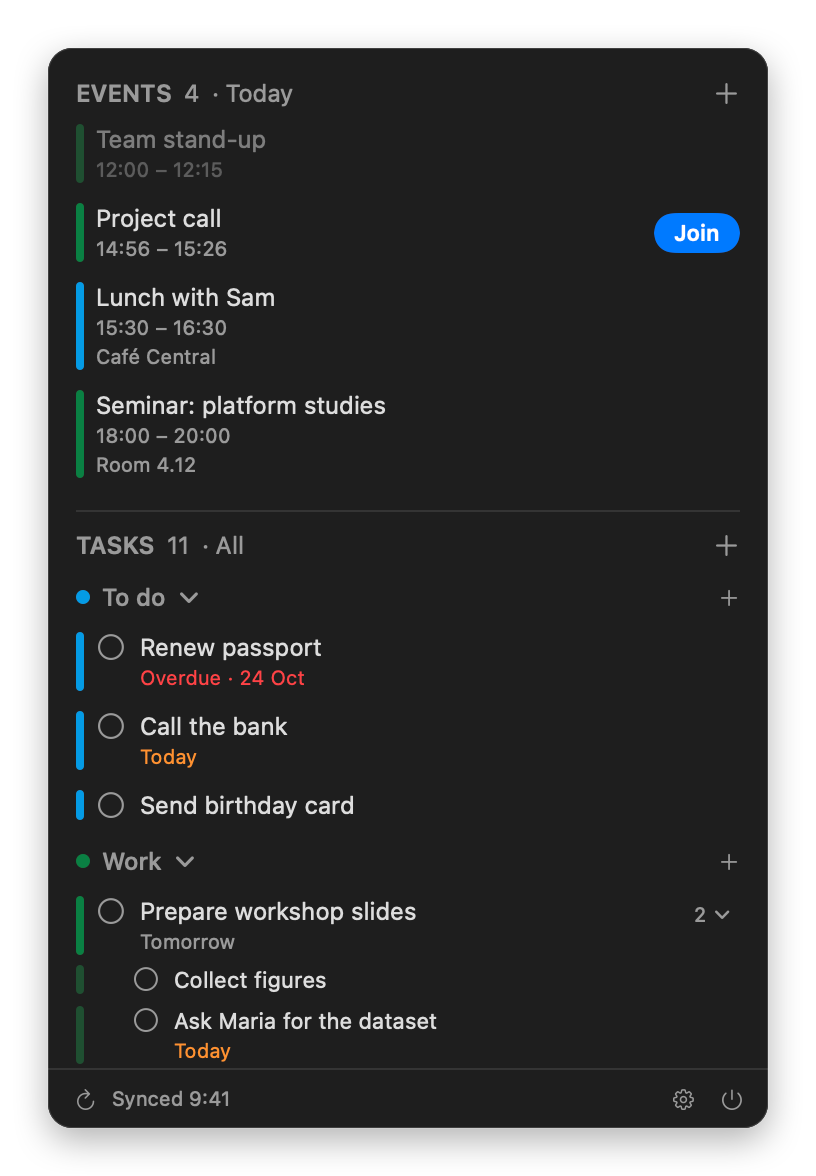
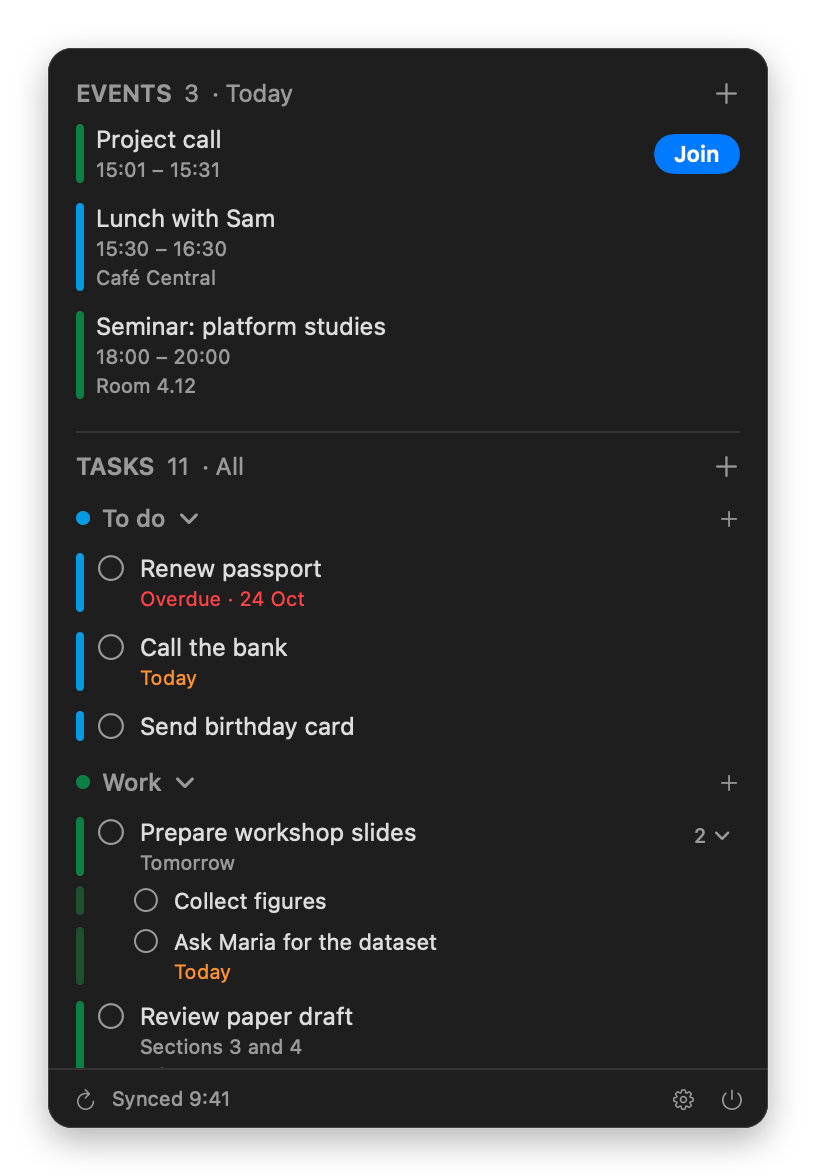
Hide events once they've ended
The list re-checks every minute and when the panel opens. Declined events still show faded (layout.json: declinedEventOpacity).

diff --git a/Sources/machen/Store.swift b/Sources/machen/Store.swift
@@ -85,6 +85,9 @@ enum Sync {
 final class Store: ObservableObject {
     /// Today; events are shown for `eventDays` days from here. Rolls over at midnight.
     @Published private(set) var day = Date().startOfDay
+    /// The time the list was last checked against; events that ended before it are hidden.
+    /// Updated every minute and when the panel opens.
+    @Published private(set) var now = Date()
     static let eventDayRange = 1...14
     /// Values the Events heading steps through when clicked.
     static let eventDayCycle = [1, 2, 3, 7]
@@ -269,8 +272,9 @@ final class Store: ObservableObject {
         return events.filter { shown.contains($0.calendarID) }
     }
 
+    /// Events still to come or under way, by day. Finished ones are left out.
     var eventsByDay: [EventDay] {
-        EventDay.group(shownEvents, from: day, days: eventDays, multiDay: multiDayMode)
+        EventDay.group(shownEvents.filter { $0.end > now }, from: day, days: eventDays, multiDay: multiDayMode)
     }
 
     /// Number of distinct events shown, counting a repeated multi-day event once.
@@ -405,6 +409,7 @@ final class Store: ObservableObject {
 
     /// Every minute: events near today, and everything every few minutes.
     private func tick() async {
+        now = Date()
         rollOverDay()
         guard loadCount == 0 else { return }
         if fullSyncDue { await refresh() } else { await refreshEvents() }
@@ -427,6 +432,7 @@ final class Store: ObservableObject {
     /// Opening the panel refreshes events and tasks (or everything, if that's due) while the
     /// loaded data shows, unless something was refreshed moments ago.
     func refreshOnOpen() async {
+        now = Date()
         guard auth.isSignedIn, loadCount == 0,
               lastSync.map({ Date().timeIntervalSince($0) >= Sync.openThreshold }) ?? true else { return }
         if fullSyncDue { return await refresh() }

diff --git a/Sources/machen/Layout.generated.swift b/Sources/machen/Layout.generated.swift
@@ -49,11 +49,11 @@ enum Layout {
         static let width: CGFloat = 360.0
     }
     enum Row {
+        static let declinedEventOpacity: CGFloat = 0.5
         static let horizontalPadding: CGFloat = 6.0
         static let hoverCornerRadius: CGFloat = 6.0
         static let hoverOpacity: CGFloat = 0.06
         static let openParentBottomShare: CGFloat = 0.2
-        static let pastEventOpacity: CGFloat = 0.5
         static let subtaskBottomShare: CGFloat = 0.5
         static let subtaskTopShare: CGFloat = 0.5
     }

diff --git a/Sources/machen/AgendaView.swift b/Sources/machen/AgendaView.swift
@@ -188,7 +188,7 @@ struct EventRow: View {
                 .frame(width: Layout.Bar.width)
         }
         .modifier(RowChrome())
-        .opacity(event.end < Date() || event.declined ? Layout.Row.pastEventOpacity : 1)
+        .opacity(event.declined ? Layout.Row.declinedEventOpacity : 1)
     }
 
     private var timeText: String {
